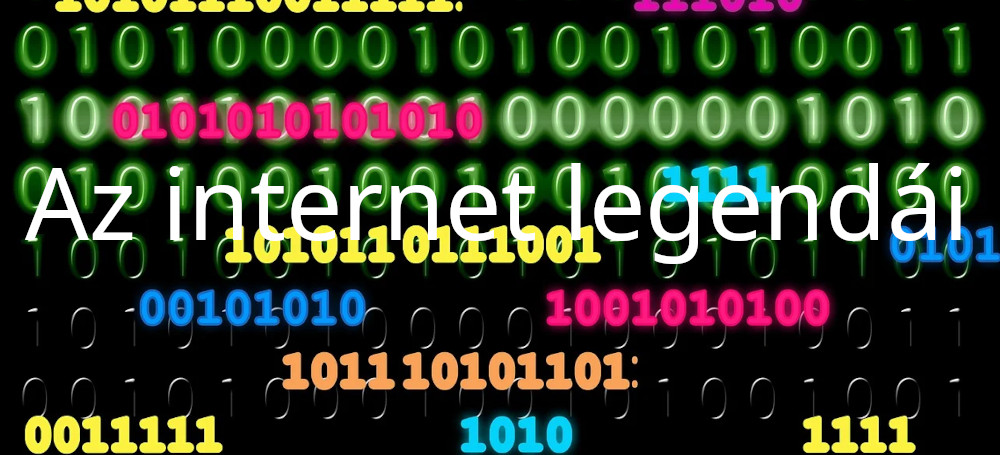
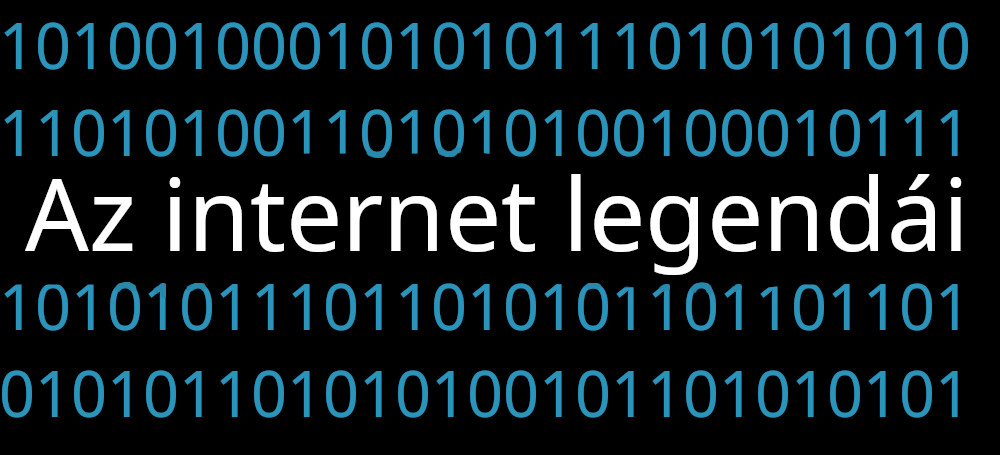
coomit

diff --git a/index.html b/index.html
@@ -44,6 +44,7 @@
         <p>
             Az Internet sajátossága, hogy széles tömegek számára biztosít globális és nyílt hozzáférést az információkhoz. Az internetről tehát csak az 1990-es évek eleje-közepe óta beszélhetünk. Az Internet a HTTP és a World Wide Web robbanásszerű terjedésével, valamint az internetes szolgáltatás terjedésével született meg. Ezt megelőzően az "internet" kifejezést többféleképpen használták az "internetkapcsolat" rövidítéseként. Ezzel a jelentéssel került bele az IP (Internet Protocol) név is. Ez a köznyelvi neve is a hálózatkutatásban kulcsszerepet játszó, zárt vagy korlátozott hozzáférésű tengerentúli intézményekből álló, folyamatosan, lassan bővülő intézményközi gerinchálózatnak. Az interneten jelenleg használt protokollok története évtizedekre nyúlik vissza.
         </p>
+        <img class="kepp" src="images/nyitokep.png" alt="nyitokep">
         <h2>
             Előzmények
         </h2>

diff --git a/indexeng.html b/indexeng.html
@@ -44,6 +44,7 @@
         <p>
             The peculiarity of the Internet is that it provides global and open access to information for wide masses. So we can only talk about the Internet since the early to mid-1990s. The Internet was born with the explosion of HTTP and the World Wide Web and the spread of Internet service. Prior to this, the term "internet" was used in several ways as an abbreviation for "internet connection". It was with this meaning that the name IP (Internet Protocol) was included. This is also the colloquial name of the continuously, slowly expanding inter-institutional backbone network of closed or limited access overseas institutions that play a key role in network research. The history of the protocols currently used on the Internet goes back decades.
         </p>
+        <img class="kepp" src="images/nyitokep.png" alt="nyitokep">
         <h2>
             Story
         </h2>

diff --git a/css/styles.css b/css/styles.css
@@ -5,6 +5,12 @@ body {
     background-color: gainsboro;,
 
 }
+.kepp{
+    margin: 0 auto;
+    width: 70%;
+    height: 300px;
+    transform: translateX(150px);
+}
 table {
     margin: auto;
 
